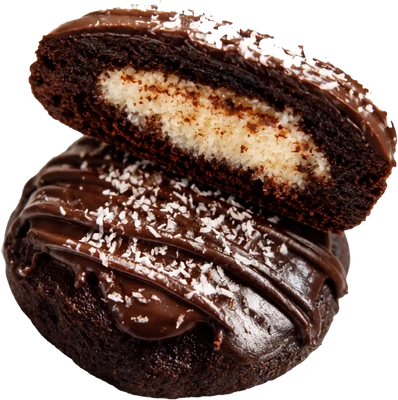
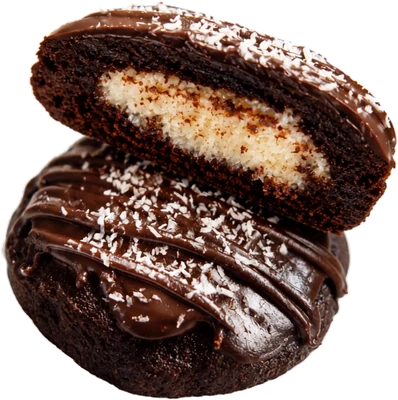
Recut the coconut cookie again: stop tearing the coconut flakes
The previous attempt made it worse, as Ray said. Dropping the background
threshold to 210 and eroding 3px flood-filled straight through the white
coconut flakes sitting on the silhouette, tearing the top edge into spikes
with pink showing between them.

The metric I optimised against was the problem: "share of light pixels on
the edge" cannot distinguish a white coconut flake from white background, so
driving it down deleted real coconut. Raggedness (perimeter / sqrt(area))
tells the truth: 5.28 at threshold 248 against 7.35 at 210.

Now cut at a strict 248 with no erosion, so only near-pure white counts as
background and the flakes survive. Colour decontamination is limited to
pixels outside the mask, so inside keeps its true colour instead of
darkening the coconut into the chocolate. Feather down to 0.6px.

Verified by eye against three candidates composited on the brand pink,
which is the only check that can actually see the difference.

README recipe corrected - it was recommending the approach that broke this.

diff --git a/README.md b/README.md
@@ -73,13 +73,19 @@ and `--brown-deep` is reserved for shadows.
   shoot it top-down on white, then:
   1. Flood fill from the image borders, never a plain white threshold — a
      global key eats white chocolate chips, coconut and frosting.
-  2. Threshold around 210, not 240. A photo's edge is anti-aliased, so a high
-     threshold leaves a pale rim *inside* the mask.
-  3. Erode the mask ~3px so the boundary sits on real cookie pixels.
-  4. Extend cookie colour outward (nearest-neighbour via distance transform)
-     before feathering the alpha. Otherwise semi-transparent edge pixels keep
-     the white background colour, and the page background bleeds through the
-     outline. This is what went wrong on the coconut cookie.
+  2. Keep the threshold STRICT (~248). A lower threshold flood-fills straight
+     through white coconut flakes and frosting on the silhouette and tears
+     them into spikes. Measure it: perimeter / sqrt(area) went 5.28 -> 7.35
+     when the threshold dropped to 210.
+  3. Do NOT erode the mask. Erosion chews the same light details.
+  4. Extend cookie colour outward into the OUTSIDE pixels only
+     (nearest-neighbour via a distance transform), then feather the alpha
+     ~0.6px. Inside pixels must keep their real colour or white coconut gets
+     darkened into the chocolate.
+
+  Judge the result by eye on the actual background. A "share of light edge
+  pixels" metric cannot tell a white coconut flake from white background, and
+  optimising against it deletes real coconut.
 - **The blob morph is CSS, not GSAP** (`@keyframes blobMorph`). GSAP's string
   interpolation drops the `/` half of an 8-value `border-radius`, which
   flattens the blobs into squircles.
